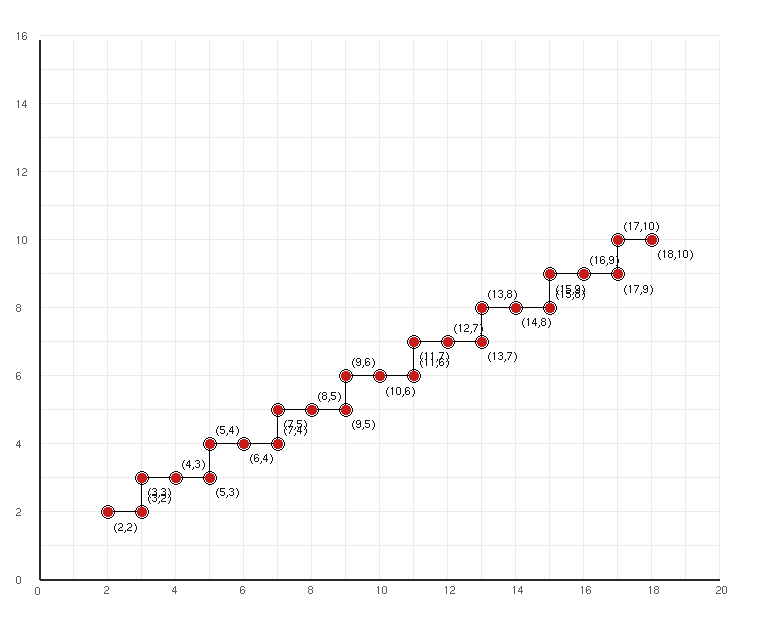
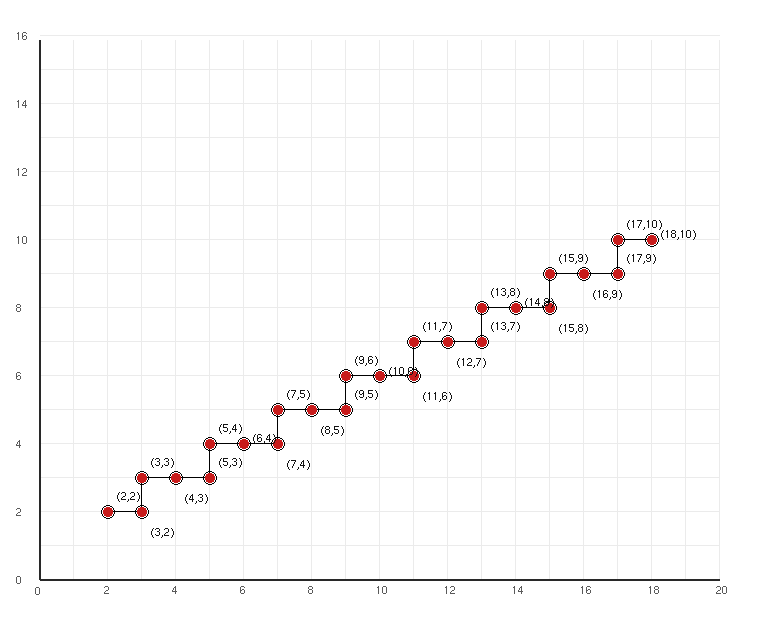
fix replaced the old simple alternating offset system with a collision-aware label placer

diff --git a/SymmetricDDA/src/symmetric_dda.py b/SymmetricDDA/src/symmetric_dda.py
@@ -244,11 +244,6 @@ def display():
         gl.glVertex2f(bx, by)
     gl.glEnd()
 
-    # ── Determine dominant axis for label placement ───────────────────────
-    dx_abs = abs(x2 - x1)
-    dy_abs = abs(y2 - y1)
-    dominant_y = dy_abs >= dx_abs
-
     # ── Circles for each pixel ────────────────────────────────────────────
     for i, (gx, gy) in enumerate(pts):
         cx, cy = to_canvas(gx, gy)
@@ -270,24 +265,63 @@ def display():
             gl.glVertex2f(cx + (r + 1.5) * math.cos(rad), cy + (r + 1.5) * math.sin(rad))
         gl.glEnd()
 
-        # Coordinate label
+    # ── Label placement with collision avoidance ──────────────────────────
+    LABEL_W = 48   # approximate width of "(xx,yy)" in pixels
+    LABEL_H = 12   # approximate height of a label
+    PAD     = 3    # padding between labels
+    placed = []    # list of (lx, ly, lx+w, ly+h) bounding boxes
+
+    # Register all point circles as occupied regions
+    for (gx, gy) in pts:
+        pcx, pcy = to_canvas(gx, gy)
+        placed.append((pcx - r - 2, pcy - r - 2, pcx + r + 2, pcy + r + 2))
+
+    def _overlaps(lx, ly):
+        """Check if a label at (lx, ly) overlaps any occupied region."""
+        ax1, ay1 = lx - PAD, ly - PAD
+        ax2, ay2 = lx + LABEL_W + PAD, ly + LABEL_H + PAD
+        for bx1, by1, bx2, by2 in placed:
+            if ax1 < bx2 and ax2 > bx1 and ay1 < by2 and ay2 > by1:
+                return True
+        return False
+
+    for i, (gx, gy) in enumerate(pts):
+        cx, cy = to_canvas(gx, gy)
         label = f"({gx},{gy})"
 
-        if dominant_y:
-            tx = cx + 8
-            ty = cy - 4
-            if tx + 46 > CANVAS_W - 4:
-                tx = cx - r - 48
-        else:
-            offset_y = -18 if (i % 2 == 0) else 10
-            tx = cx + 6
-            ty = cy + offset_y
-            if tx + 44 > CANVAS_W - 4:
-                tx = cx - r - 46
+        # Generate 12 candidate positions around the point
+        off = r + 4  # offset from point centre
+        candidates = [
+            (cx + off,               cy + 2),                  # right-centre
+            (cx + off,               cy - LABEL_H - 2),        # right-below
+            (cx + off,               cy + LABEL_H),            # right-above
+            (cx - LABEL_W - off,     cy + 2),                  # left-centre
+            (cx - LABEL_W - off,     cy - LABEL_H - 2),        # left-below
+            (cx - LABEL_W - off,     cy + LABEL_H),            # left-above
+            (cx - LABEL_W // 2,      cy + off + 2),            # top-centre
+            (cx - LABEL_W // 2,      cy - off - LABEL_H),      # bottom-centre
+            (cx + off,               cy + 2 * LABEL_H),        # right-far-above
+            (cx + off,               cy - 2 * LABEL_H),        # right-far-below
+            (cx - LABEL_W - off,     cy + 2 * LABEL_H),        # left-far-above
+            (cx - LABEL_W - off,     cy - 2 * LABEL_H),        # left-far-below
+        ]
 
-        ty = max(2, min(ty, CANVAS_H - 14))
+        # Clamp and pick the first non-overlapping candidate
+        tx, ty = candidates[0]
+        found = False
+        for cand_x, cand_y in candidates:
+            cand_x = max(2, min(cand_x, CANVAS_W - LABEL_W - 2))
+            cand_y = max(2, min(cand_y, CANVAS_H - LABEL_H - 2))
+            if not _overlaps(cand_x, cand_y):
+                tx, ty = cand_x, cand_y
+                found = True
+                break
+        if not found:
+            # All candidates overlap — use right-centre clamped
+            tx = max(2, min(candidates[0][0], CANVAS_W - LABEL_W - 2))
+            ty = max(2, min(candidates[0][1], CANVAS_H - LABEL_H - 2))
 
-        # Draw main text
+        placed.append((tx, ty, tx + LABEL_W, ty + LABEL_H))
         draw_text(tx, ty, label, LABEL_COLOR, glut.GLUT_BITMAP_HELVETICA_10)
 
     gl.glFlush()
